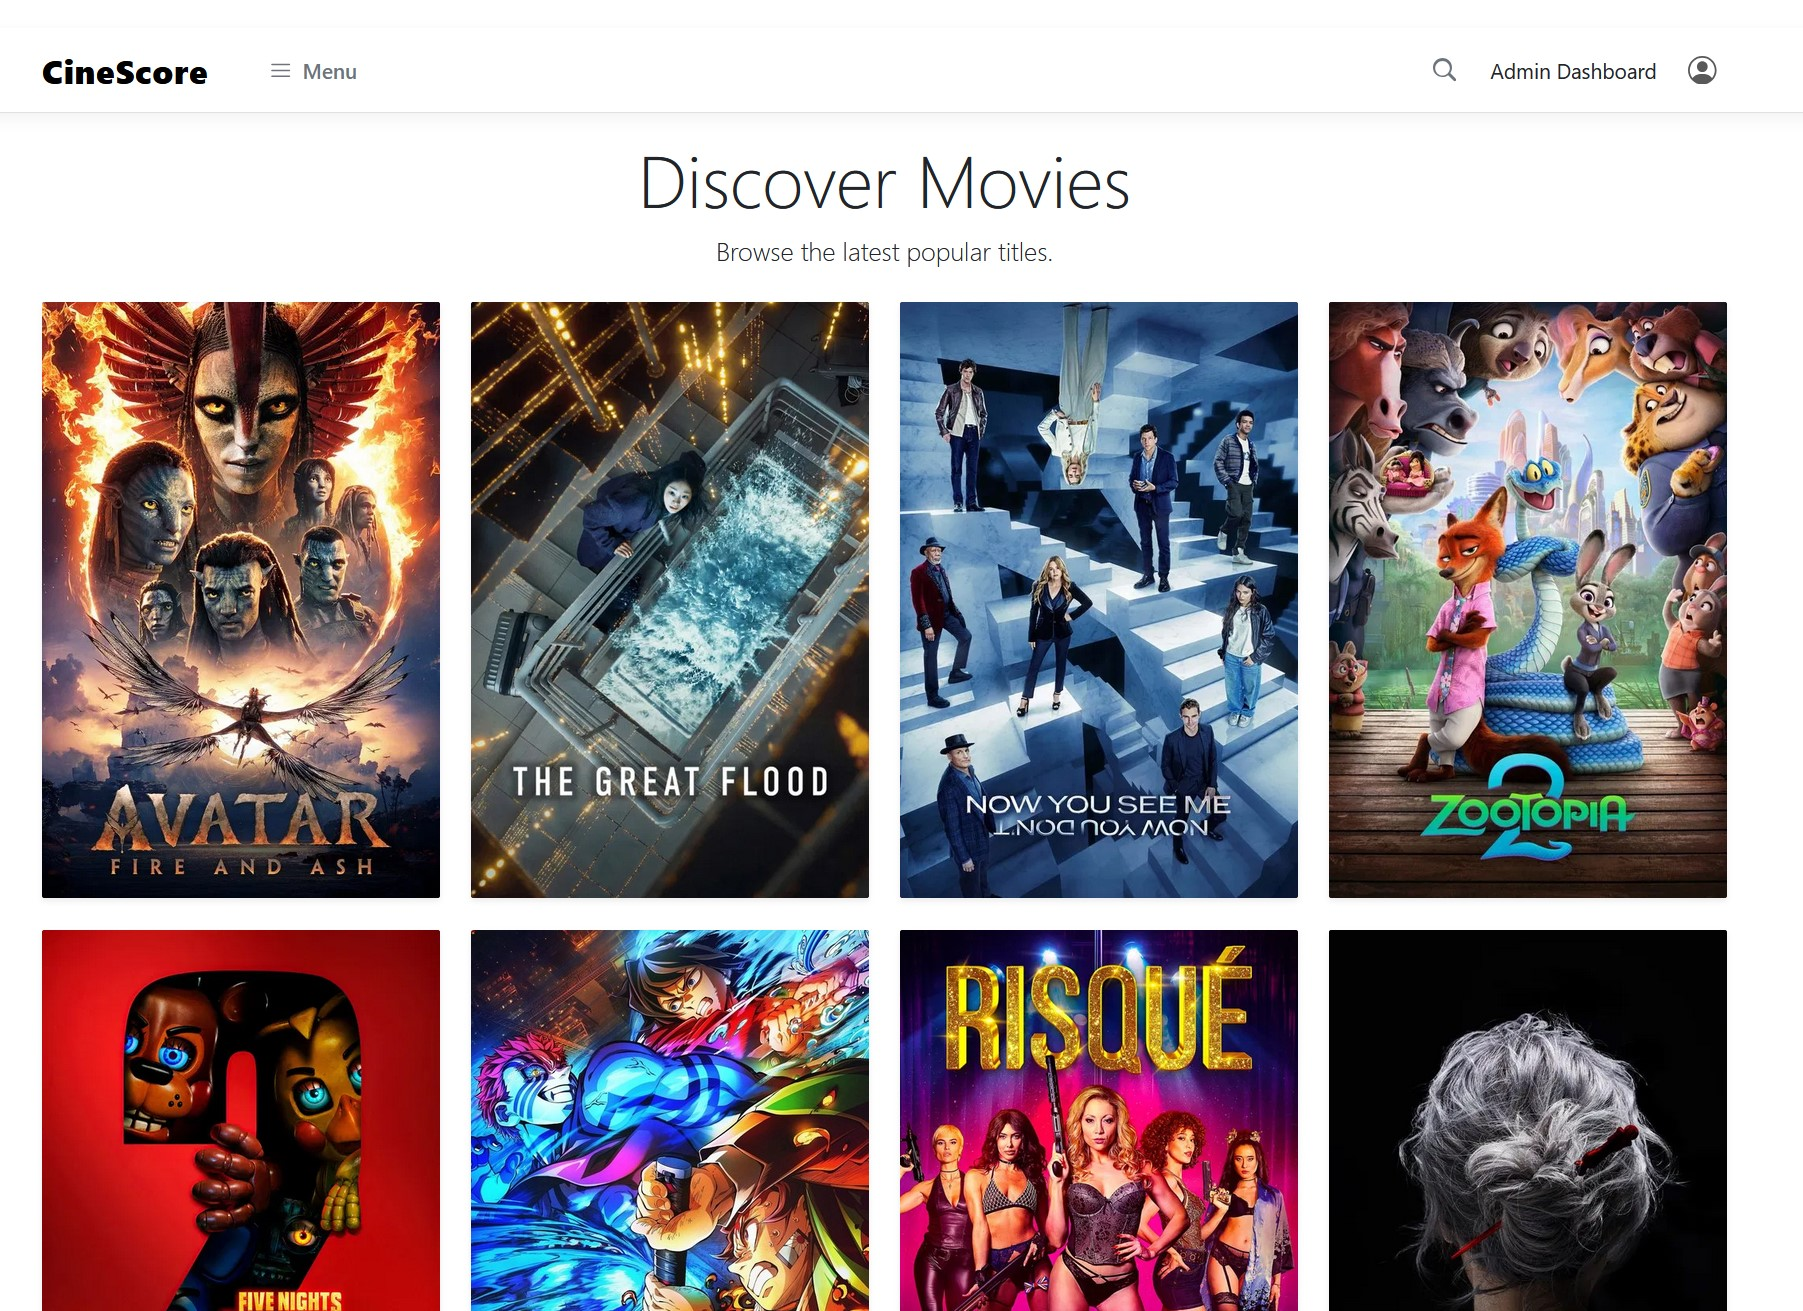
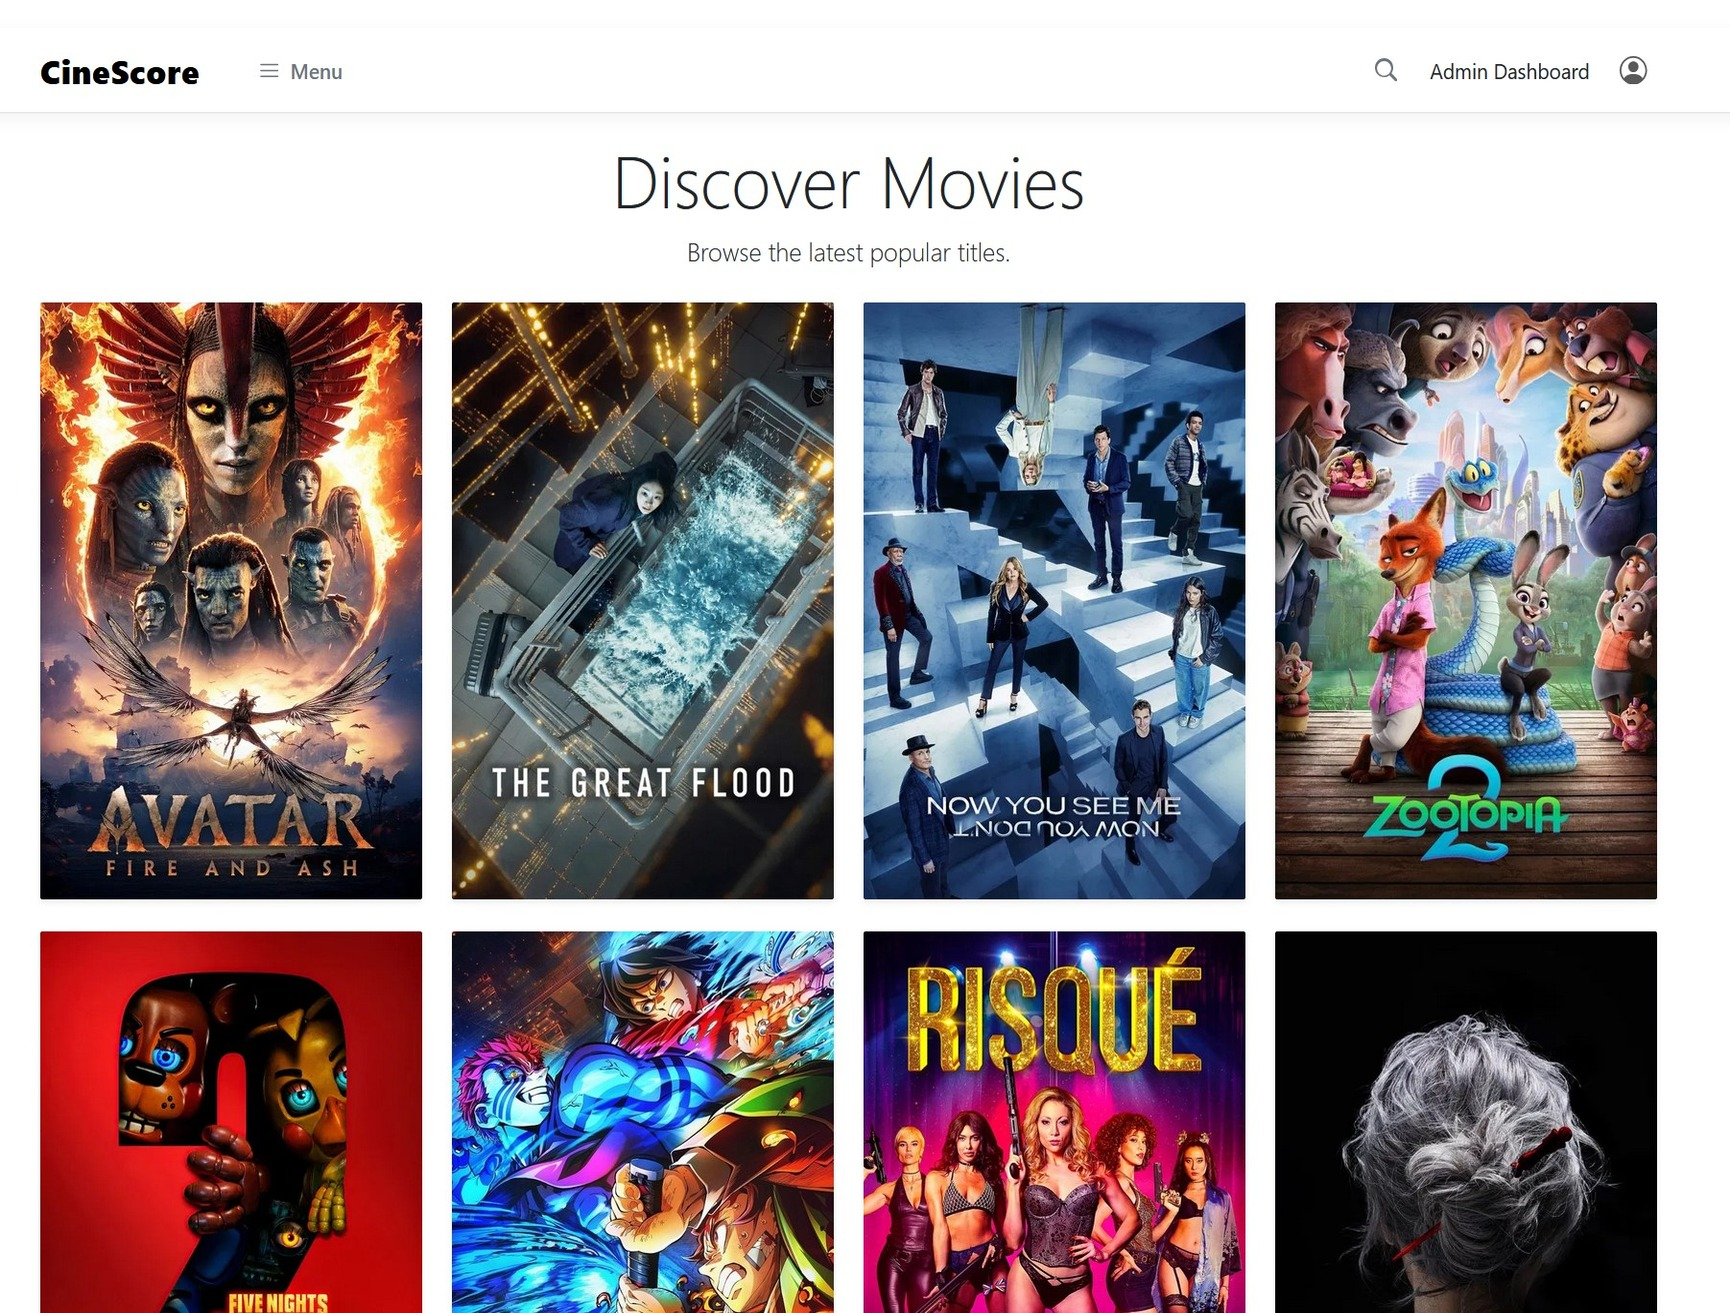
Updated README.md
Added the Database desc. and updated the images to be the same resolution.

Changed region(s): [[0.4682, 0.1831, 0.4994, 0.2136]]

diff --git a/README.md b/README.md
@@ -59,4 +59,16 @@ skoraj vsemi deli spletne aplikacije, zato spodaj navedeni deli zgolj določajo 
 ## Slike
 Tukaj so slike, ki prikazujejo spletno stran, za slike **Android aplikacije** obiščite: "https://github.com/butarca/CineScore-android"
 
-<img src="screenshots/image1.jpg" width="45%"> <img src="screenshots/image2.jpg" width="44%"> <img src="screenshots/image3.jpg" width="45%">
+<img src="screenshots/image1.jpg" width="45%"> <img src="screenshots/image2.jpg" width="44%"> <img src="screenshots/image3.jpg" width="45%"> <img src="screenshots/image4.jpg" width="45%">
+
+#### Podatkovna baza
+Lastne tabele (Slika 4, moder gradient)
+- Movies: filmi z osnovnimi podatki (naslov, leto, žanr, opis, URL za poster/banner) in povezavami na ocene in komentarje.
+- Ratings: ocene filmov, vsaka vrstica ima svojo oceno, referenco na uporabnika in film (UserId, MovieId).
+- Comments: komentarji za filme, vsebujejo besedilo, število zvezdic (Rating), čas nastanka ter povezave na uporabnika in film.
+- Favorites: povezava uporabnik–film za shranjene priljubljenh filmov (UserId, MovieId).
+- CommentReactions: odzivi na komentarje (like/dislike), z referenco na komentar in uporabnika, s časom nastanka.
+
+Ostale tabele pa so s Framework (Identity, EF) in služijo avtentikaciji/avtorizaciji ter sledenju migracij.
+
+
